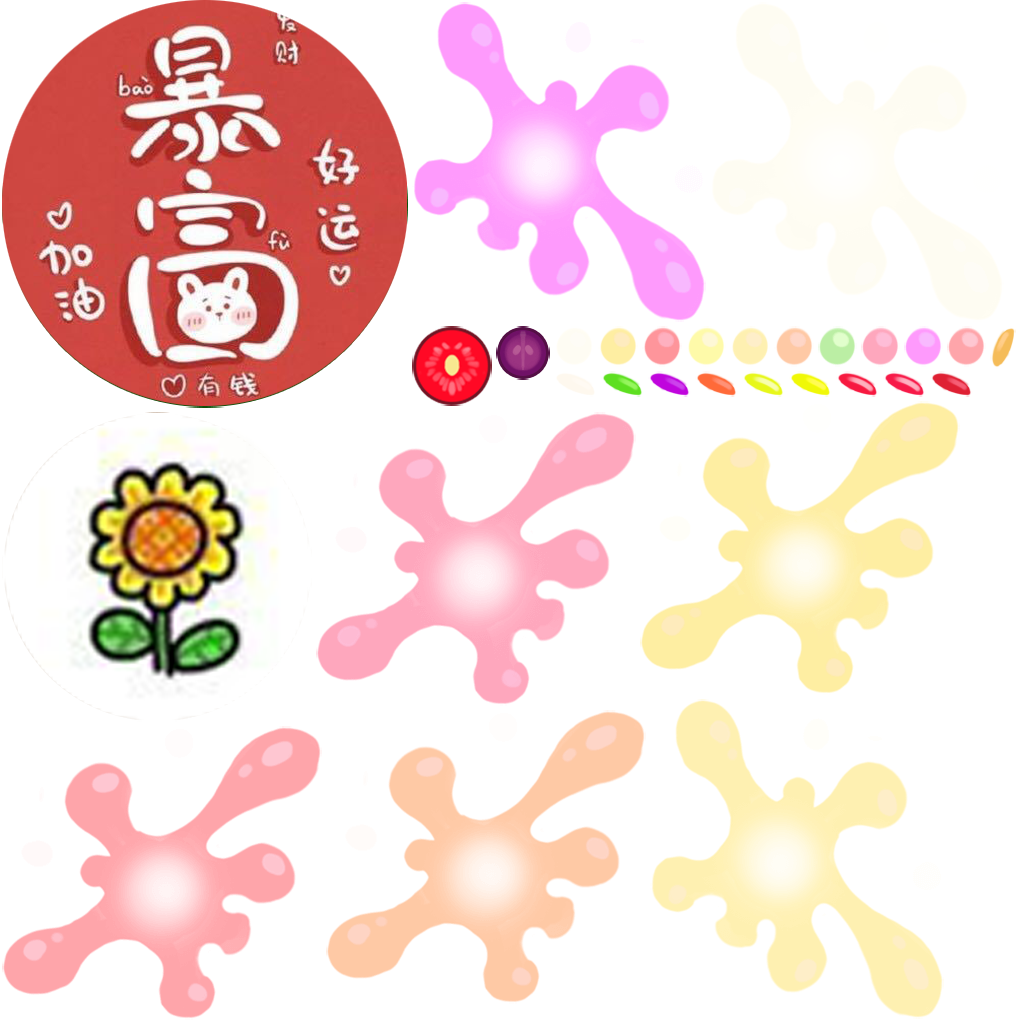
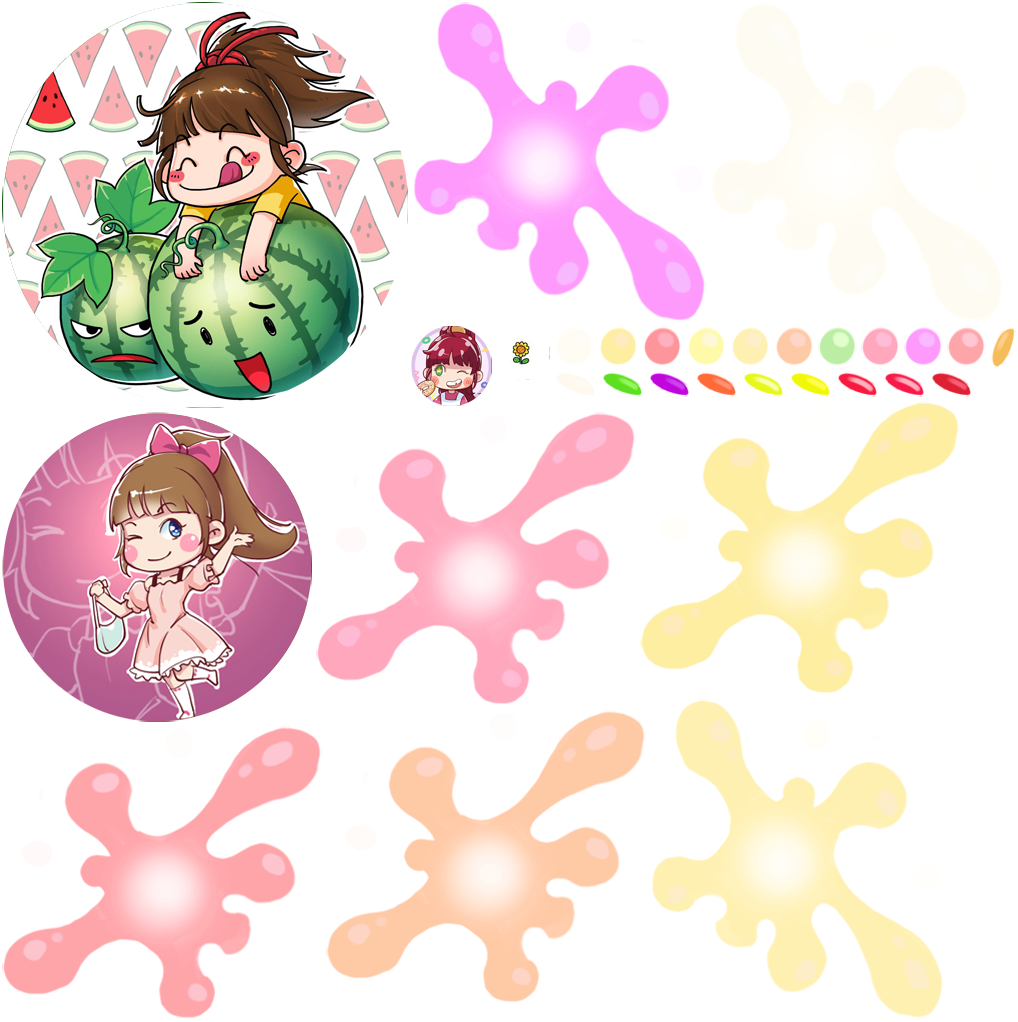
caicai test

Changed region(s): [[0.0, 0.0, 0.4263, 0.728], [0.3959, 0.3033, 0.5481, 0.3943]]

diff --git a/index.html b/index.html
@@ -4,7 +4,7 @@
 <head>
     <meta charset="utf-8">
 
-    <title>小游戏-齐人就扔瓜了</title>
+    <title>小游戏-来拼采采的大瓜</title>
 
     <!--http://www.html5rocks.com/en/mobile/mobifying/-->
     <meta name="viewport" content="width=device-width,user-scalable=no,initial-scale=1, minimum-scale=1,maximum-scale=1" />
@@ -106,7 +106,7 @@
         judgeLanTitle();
 
         function judgeLanTitle() {
-            alert("点击宝箱,切换西瓜。")
+            alert("点击右上角段子来了,切换小瓜。\n游戏由 @时差党燃哥 改编");
 
             //        console.log("window.navigator.language",window.navigator.language);
 
@@ -125,7 +125,7 @@
             } else {
                 document.title = "Little game：Synthetic watermelon";
             }*/
-            document.title = "小游戏-齐人就扔瓜了";
+            document.title = "小游戏-来拼采采的大瓜";
 
         }
 
